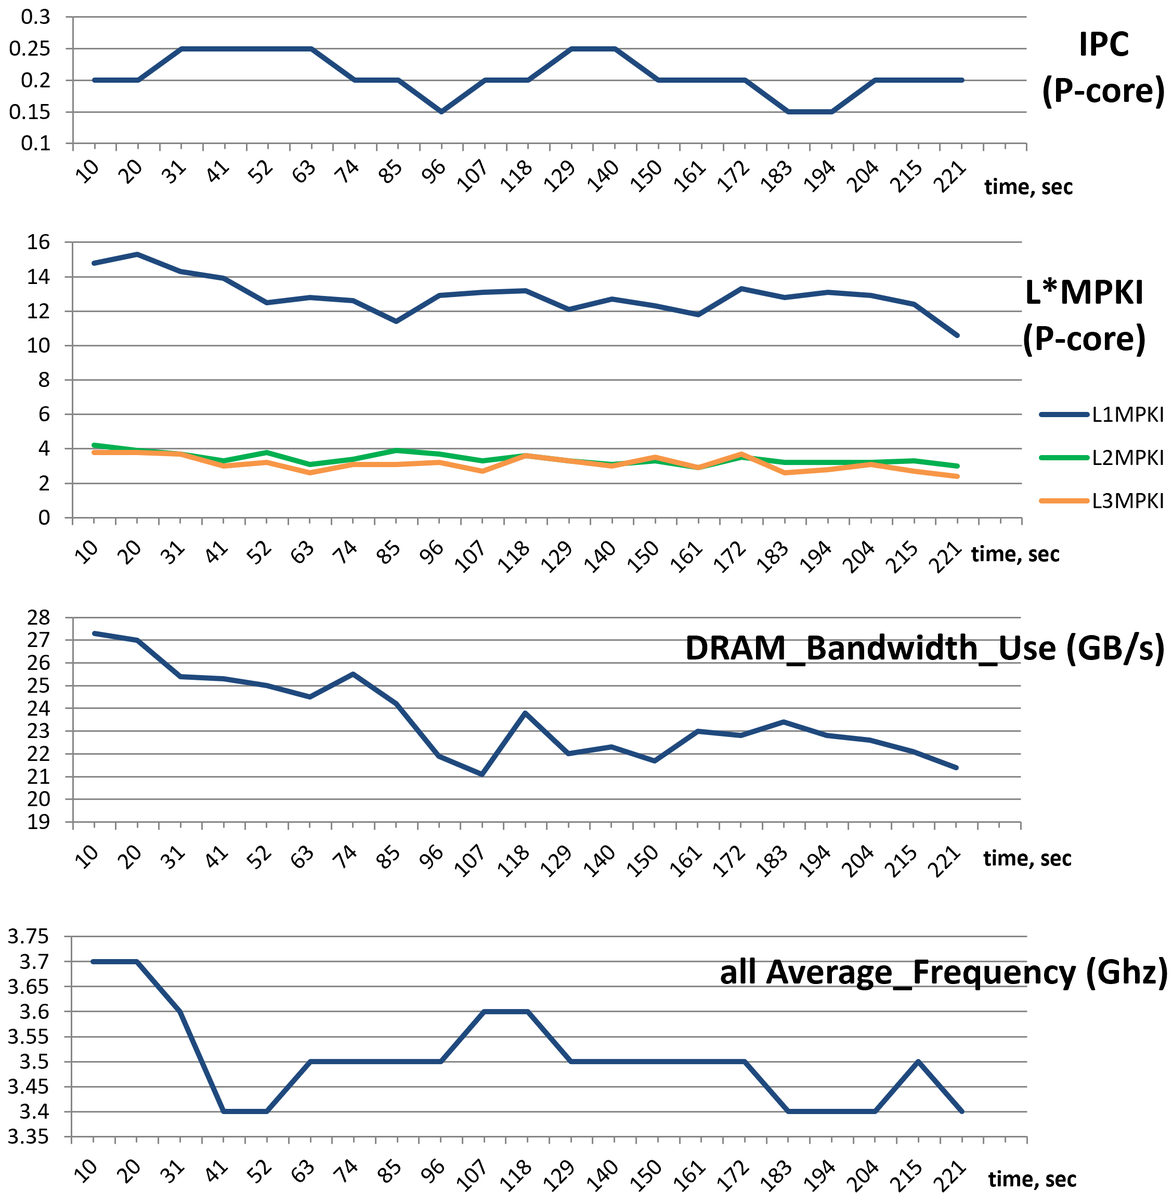
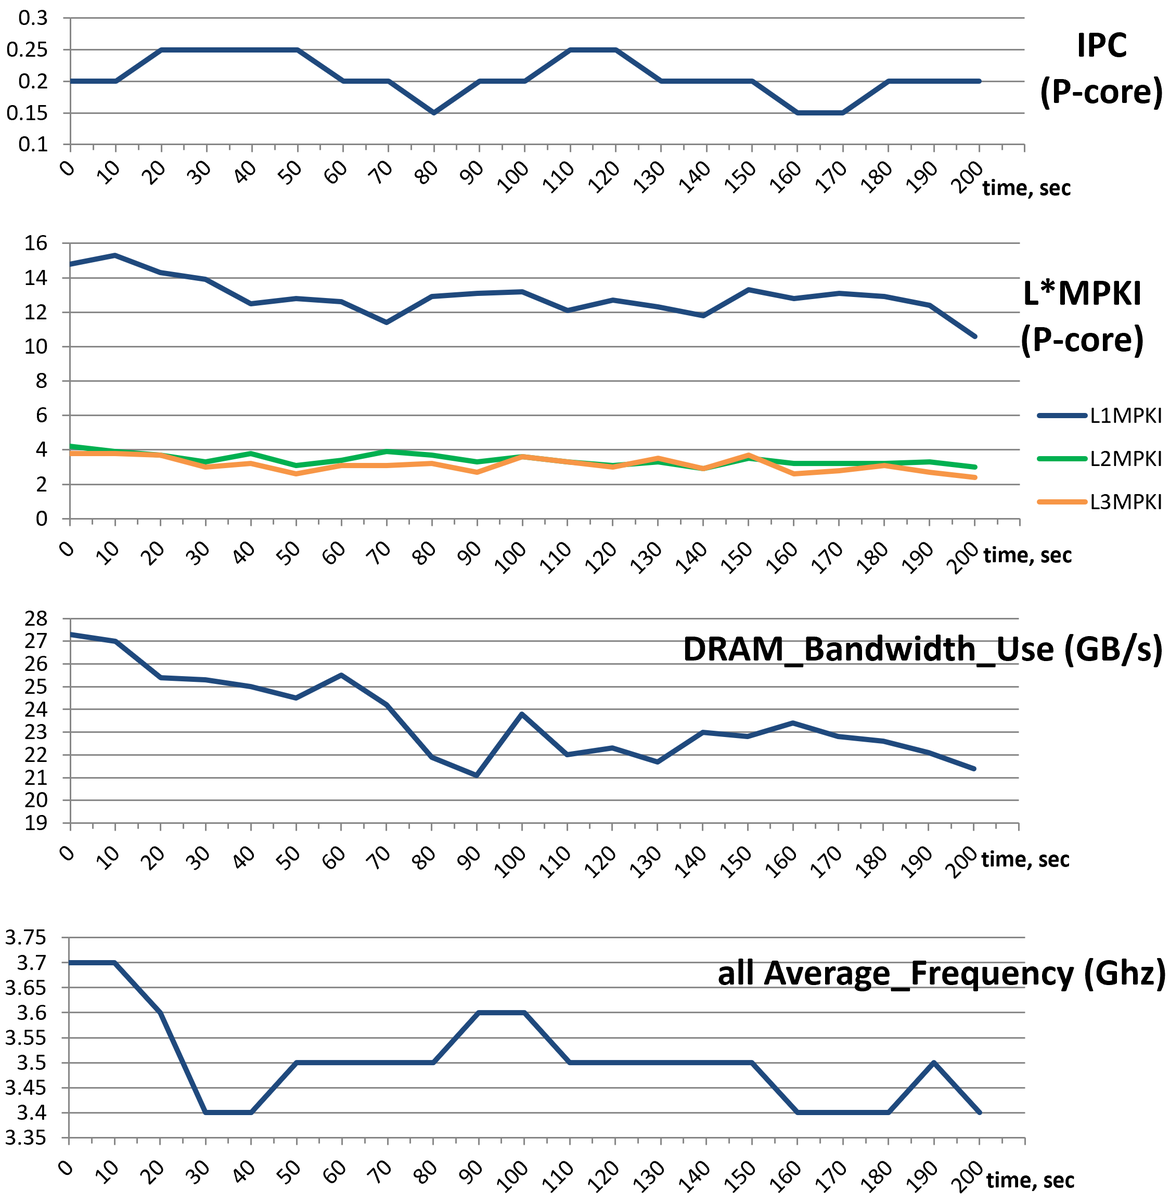
[Fixing TODOs] part3

diff --git a/chapters/4-Terminology-And-Metrics/4-11 Case Study of 4 Benchmarks.md b/chapters/4-Terminology-And-Metrics/4-11 Case Study of 4 Benchmarks.md
@@ -13,8 +13,7 @@ For the purpose of this exercise, we run all four benchmarks on the machine with
 * 16 GB RAM, DDR4 @ 2400 MT/s
 * 256GB NVMe PCIe M.2 SSD
 * 64-bit Ubuntu 22.04.1 LTS (Jammy Jellyfish)
-
-[TODO][FIX_BEFORE_REVIEW]: add compiler version and compiler options that were used
+* Clang-15 C++ compiler with the following options: `-O3 -march=core-avx2`
 
 To collect performance metrics, we use `toplev.py` script that is a part of [pmu-tools](https://github.com/andikleen/pmu-tools)[^1] written by Andi Kleen:
 
@@ -30,9 +29,7 @@ Table {@tbl:perf_metrics_case_study} provides a side-by-side comparison of perfo
 
 * __Clang 15 selfbuild__. Compilation of C++ code is one of the tasks which has a very flat performance profile, i.e., there are no big hotspots. Usually you will see that the running time is attributed to many different functions. First thing we spot is that P-cores are doing 68% more work than E-cores and have 42% better IPC. But both P- and E-cores have low IPC. The L*MPKI metrics don't look troubling at first glance; however, in combination with the load miss real latency (`LdMissLat`, in core clocks), we can see that the average cost of a cache miss is quite high (~77 cycles). Now, when we look at the `*STLB_MPKI` metrics, we notice substantial differences with any other benchmark we test. This is due to another aspect of the Clang compiler (and other compilers as well): the size of the binary is relatively big (more than 100 MB). The code constantly jumps to distant places causing high pressure on the TLB subsystem. As you can see the problem exists both for instructions (see `Code stlb MPKI`) and data (see `Ld stlb MPKI`). Let's proceed with our analysis. DRAM bandwidth use is higher than for the two previous benchmarks, but still is not reaching even half of the maximum memory bandwidth on our platform (which is ~25 GB/s). Another concern for us is the very small number of instructions per call (`IpCall`): only ~41 instruction per function call. This is unfortunately the nature of the compilation codebase: it has thousands of small functions. The compiler needs to be more aggressive with inlining all those functions and wrappers. Yet, we suspect that the performance overhead associated with making a function call remains an issue for the Clang compiler. Also, one can spot the high `ipBranch` and `IpMispredict` metric. For Clang compilation, every fifth instruction is a branch and one of every ~35 branches gets mispredicted. There are almost no FP or vector instructions, but this is not surprising. Conclusion: Clang has a large codebase, flat profile, many small functions, and "branchy" code; performance is affected by data cache and TLB misses, and branch mispredictions.
 
-[TODO][FIX_BEFORE_REVIEW]: recheck: The amount of work done by P- and E-cores is roughly the same, but it takes P-cores more time to do this work, resulting in a lower IPC of one logical thread on P-core compared to one physical E-core. **We don't have a good explanation to that just yet**.
-
-* __CloverLeaf__. As before, we start with analyzing instructions and core cycles. The amount of work done by P- and E-cores is roughly the same, but it takes P-cores more time to do this work, resulting in a lower IPC of one logical thread on P-core compared to one physical E-core. We don't have a good explanation for that. The `L*MPKI` metrics is high, especially the number of L3 misses per kilo instructions. The load miss latency (`LdMissLat`) is off the charts, suggesting an extremely high price of the average cache miss. Next, we take a look at the `DRAM BW use` metric and see that memory bandwidth is fully saturated. That's the problem: all the cores in the system share the same memory bus, so they compete for access to main memory, which effectively stalls the execution. CPUs are undersupplied with the data that they demand. Going further, we can see that CloverLeaf does not suffer from mispredictions or function call overhead. The instruction mix is dominated by FP double-precision scalar operations with some parts of the code being vectorized. Conclusion: multi-threaded CloverLeaf is bound by memory bandwidth.
+* __CloverLeaf__. As before, we start with analyzing instructions and core cycles. The amount of work done by P- and E-cores is roughly the same, but it takes P-cores more time to do this work, resulting in a lower IPC of one logical thread on P-core compared to one physical E-core.[^2] The `L*MPKI` metrics is high, especially the number of L3 misses per kilo instructions. The load miss latency (`LdMissLat`) is off the charts, suggesting an extremely high price of the average cache miss. Next, we take a look at the `DRAM BW use` metric and see that memory bandwidth is fully saturated. That's the problem: all the cores in the system share the same memory bus, so they compete for access to main memory, which effectively stalls the execution. CPUs are undersupplied with the data that they demand. Going further, we can see that CloverLeaf does not suffer from mispredictions or function call overhead. The instruction mix is dominated by FP double-precision scalar operations with some parts of the code being vectorized. Conclusion: multi-threaded CloverLeaf is bound by memory bandwidth.
 
 --------------------------------------------------------------------------
 Metric           Core        Blender     Stockfish   Clang15-   CloverLeaf
@@ -105,20 +102,17 @@ Table: Performance Metrics of Four Benchmarks. {#tbl:perf_metrics_case_study}
 
 As you can see from this study, there is a lot one can learn about behavior of a program just by looking at the metrics. It answers the "what?" question, but doesn't tell you the "why?". For that you will need to collect performance profile, which we will introduce in later chapters. In Part 2 of this book we will discuss how to mitigate the performance issues we suspect take place in the four benchmarks that we have analyzed.
 
-Keep in mind that the summary of performance metrics in Table {@tbl:perf_metrics_case_study} only tells you about the *average* behavior of a program. For example, we might be looking at CloverLeaf's IPC of `0.2`, while in reality it may never run with such an IPC, instead it may have 2 phases of equal duration, one running with IPC of `0.1`, and the second with IPC of `0.3`. Performance tools tackle this by reporting statistical data for each metric along with the average value. Usually, having min, max, 95th percentile, and variation (stdev/avg) is enough to understand the distribution. Also, some tools allow plotting the data, so you can see how the value for a certain metric changed during the program running time. As an example, Figure @fig:CloverMetricCharts shows the dynamics of IPC, L*MPKI, DRAM BW and average frequency for the CloverLeaf benchmark. The `pmu-tools` package can automatically build those charts once you add `--xlsx` and `--xchart` options.
+Keep in mind that the summary of performance metrics in Table {@tbl:perf_metrics_case_study} only tells you about the *average* behavior of a program. For example, we might be looking at CloverLeaf's IPC of `0.2`, while in reality it may never run with such an IPC, instead it may have 2 phases of equal duration, one running with IPC of `0.1`, and the second with IPC of `0.3`. Performance tools tackle this by reporting statistical data for each metric along with the average value. Usually, having min, max, 95th percentile, and variation (stdev/avg) is enough to understand the distribution. Also, some tools allow plotting the data, so you can see how the value for a certain metric changed during the program running time. As an example, Figure @fig:CloverMetricCharts shows the dynamics of IPC, L*MPKI, DRAM BW and average frequency for the CloverLeaf benchmark. The `pmu-tools` package can automatically build those charts once you add `--xlsx` and `--xchart` options. The `-I 10000` option aggregates collected samples with 10 second intervals.
 
 ```bash
-$ ~/workspace/pmu-tools/toplev.py -m --global --no-desc -v --xlsx workload.xlsx –xchart -- ./clover_leaf
+$ ~/workspace/pmu-tools/toplev.py -m --global --no-desc -v --xlsx workload.xlsx –xchart -I 10000 -- ./clover_leaf
 ```
 
-![A set of metrics charts for the CloverLeaf benchmark.](../../img/terms-and-metrics/CloverMetricCharts2.png){#fig:CloverMetricCharts width=100% }
+![Performance metrics charts for the CloverLeaf benchmark with 10 second intervals.](../../img/terms-and-metrics/CloverMetricCharts2.png){#fig:CloverMetricCharts width=100% }
 
-Even though the deviation from the values reported in the summary is not very big, we can see that the workload is not always stable. After looking at the IPC chart we can hypothesize that there are no various phases in the workload and the variation is caused by multiplexing between performance events (discussed in [@sec:counting]). Yet, this is only a hypothesis that needs to be confirmed or disproved. Possible ways to proceed would be to collect more data points by running collection with higher granularity (in our case it's 10 sec) and study the source code. Be careful when drawing conclusions just from looking at the numbers; always obtain a second source of data to confirm your hypothesis.
+Even though the deviation from the average values reported in the summary is not very big, we can see that the workload is not stable. After looking at the IPC chart for P-core we can hypothesize that there are no distinct phases in the workload and the variation is caused by multiplexing between performance events (discussed in [@sec:counting]). Yet, this is only a hypothesis that needs to be confirmed or disproved. Possible ways to proceed would be to collect more data points by running collection with higher granularity (in our case it was 10 seconds). The chart that plots L*MPKI suggests that all three metrics hover around their average numbers without much deviation. The DRAM bandwidth utilization chart indicates that there are periods with varying pressure on the main memory. The last chart shows the average frequency of all CPU cores. As you may observe on this chart, throttling starts after the first 10 seconds. We recommend to be careful when drawing conclusions just from looking at the aggregate numbers since they may not be a good representation of the workload behavior.
 
-[TODO][FIX_BEFORE_REVIEW]: describe the charts.
+In summary, performance metrics help you build a right mental model about what is and what is *not* happening in a program. Going further into analysis, this data will serve you well.
 
-Even though the deviation from the values reported in the summary is not very big, we can see that the workload is not always stable. After looking at the IPC chart we can hypothesize that there are no various phases in the workload and the variation is caused by multiplexing between performance events (discussed in [@sec:counting]). Yet, this is only a hypothesis that needs to be confirmed or disproved. Possible ways to proceed would be to collect more data points by running collection with higher granularity (in our case it's 10 sec) and study the source code. Be careful when drawing conclusions just from looking at the numbers; always obtain a second source of data to confirm your hypothesis.
-
-In summary, looking at performance metrics helps building the right mental model about what is and what is *not* happening in a program. Going further into analysis, this data will serve you well.
-
-[^1]: pmu-tools - [https://github.com/andikleen/pmu-tools](https://github.com/andikleen/pmu-tools).
+[^1]: pmu-tools - [https://github.com/andikleen/pmu-tools](https://github.com/andikleen/pmu-tools)
+[^2]: A possible explanation to that is because CloverLeaf is very memory-bandwidth bound. All P- and E-cores are equally stalled waiting on memory. Because P-cores have higher frequency, they waste more CPU clocks than E-cores.

diff --git a/chapters/4-Terminology-And-Metrics/4-16 Chapter summary.md b/chapters/4-Terminology-And-Metrics/4-16 Chapter summary.md
@@ -3,12 +3,9 @@
 ## Chapter Summary {.unlisted .unnumbered}
 
 * In this chapter, we introduced the basic metrics in performance analysis such as retired/executed instructions, CPU utilization, IPC/CPI, $\mu$ops, pipeline slots, core/reference clocks, cache misses and branch mispredictions. We showed how each of these metrics can be collected with Linux perf.
-* For more advanced performance analysis, there are many derivative metrics that one can collect. For instance, MPKI (misses per kilo instructions), Ip* (instructions per function call, branch, load, etc), ILP, MLP and others. The case studies in this chapter show how we can get actionable insights from analyzing these metrics. Although, be careful about drawing conclusions just by looking at the aggregate numbers. Don't fall in the trap of "excel performance engineering", i.e., only collecting performance metrics and never looking at the code. Always seek a second source of data (e.g., performance profiles, discussed later) to verify your hypothesis.
+* For more advanced performance analysis, there are many derivative metrics that you can collect. For instance, cache misses per kilo instructions (MPKI), instructions per function call, branch, load, etc (Ip*), ILP, MLP, and others. The case studies in this chapter show how you can get actionable insights from analyzing these metrics. 
+* Be careful about drawing conclusions just by looking at the aggregate numbers. Don't fall in the trap of "excel performance engineering", i.e., only collect performance metrics and never look at the code. Always seek a second source of data (e.g., performance profiles, discussed later) to verify your ideas.
 * Memory bandwidth and latency are crucial factors in performance of many production SW packages nowadays, including AI, HPC, databases, and many general-purpose applications. Memory bandwidth depends on the DRAM speed (in MT/s) and the number of memory channels. Modern high-end server platforms have 8-12 memory channels and can reach up to 500 GB/s for the whole system and up to 50 GB/s in single-threaded mode. Memory latency nowadays doesn't change a lot, in fact it is getting slightly worse with new DDR4 and DDR5 generations. The majority of modern systems fall in the range of 70--110 ns latency per memory access.
-
-[TODO][FIX_BEFORE_REVIEW]: fallacy of absolute numbers.
-
-[TODO][FIX_BEFORE_REVIEW]: Performance metrics: be careful about drawing conclusions just by looking at the aggregate numbers. Don't fall in the trap of "excel performance engineering", i.e., only collect performance metrics and never look at the code. Always seek a second source of data (e.g., performance profiles, discussed later) that will confirm your hypothesis.
 
 \sectionbreak
 

diff --git a/chapters/4-Terminology-And-Metrics/4-9 Performance Metrics.md b/chapters/4-Terminology-And-Metrics/4-9 Performance Metrics.md
@@ -1,6 +1,8 @@
 ## Performance Metrics {#sec:PerfMetrics}
 
-In addition to the performance events that we discussed earlier in this chapter, performance engineers frequently use metrics, which are built on top of raw events. Table {@tbl:perf_metrics} shows a list of metrics for Intel's 12th-gen Goldencove architecture along with descriptions and formulas. The list is not exhaustive, but it shows the most important metrics. A complete list of metrics for Intel CPUs and their formulas can be found in [TMA_metrics.xlsx](https://github.com/intel/perfmon/blob/main/TMA_Metrics.xlsx).[^1] [@sec:PerfMetricsCaseStudy] shows how performance metrics can be used in practice.
+Being able to collect various performance events is very helpful in performance analysis. However, there is a problem. Say, you ran a program and collected `MEM_LOAD_RETIRED.L3_MISS` event, which counts the LLC misses, and it shows you a value of one billion. Sure it sounds like a lot, so you decided to investigate where these cache misses are coming from. Wrong! Are you really sure it is an issue? If a program only does two billion loads, then yes, it is a problem as half of the loads miss in the LLC. In contrast, if a program does one trillion loads, then only one in a thousand loads results in a L3 cache miss.
+
+That's why in addition to the hardware performance events, performance engineers frequently use metrics, which are built on top of raw events. Table {@tbl:perf_metrics} shows a list of metrics for Intel's 12th-gen Goldencove architecture along with descriptions and formulas. The list is not exhaustive, but it shows the most important metrics. A complete list of metrics for Intel CPUs and their formulas can be found in [TMA_metrics.xlsx](https://github.com/intel/perfmon/blob/main/TMA_Metrics.xlsx).[^1] [@sec:PerfMetricsCaseStudy] shows how performance metrics can be used in practice.
 
 \small
 

diff --git a/chapters/4-Terminology-And-Metrics/4-5 Pipeline Slot.md b/chapters/4-Terminology-And-Metrics/4-5 Pipeline Slot.md
@@ -8,8 +8,9 @@ Another important metric which some performance tools use is the concept of a *p
 
 [TODO][FIX_BEFORE_REVIEW]: update. Apple published that M1 has 8-wide allocation and M3 is 9-wide, see Table 4.10. uop Execution Bandwidth.
 
-Intel's Skylake and AMD Zen3 cores have 4-wide allocation. Intel's SunnyCove microarchitecture was a 5-wide design. As of 2023, most recent Goldencove and Zen4 architectures both have 6-wide allocation. Apple M1 design is not officially disclosed but is measured to be 8-wide.[^1]
+Intel's Skylake and AMD Zen3 cores have 4-wide allocation. Intel's SunnyCove microarchitecture was a 5-wide design. As of the end of 2023, most recent Goldencove and Zen4 architectures both have 6-wide allocation. Apple M1 design is not officially disclosed but is measured to be 8-wide.[^1] The width of a machine puts a cap on IPC. This means that the maximum achievable IPC of a processor equals to its width.[^2] For example, when your calculations show more than 6 IPC on a Goldencove-based machine, you should be suspicious.
 
 Pipeline slot is one of the core metrics in Top-down Microarchitecture Analysis (see [@sec:TMA]). For example, Front-End Bound and Back-End Bound metrics are expressed as a percentage of unutilized Pipeline Slots due to various bottlenecks.
 
 [^1]: Apple Microarchitecture Research - [https://dougallj.github.io/applecpu/firestorm.html](https://dougallj.github.io/applecpu/firestorm.html)
+[^2]: Although there are some exception. For instance macrofused compare-and-branch instructions only require a single pipeline slot, but are counted as two instructions. In some extreme cases this may cause IPC to be greater than machine width.

diff --git a/chapters/15-Epilog/15-1 Acknowledgements.md b/chapters/15-Epilog/15-1 Acknowledgements.md
@@ -53,11 +53,8 @@ Marco Castorina authored [@sec:Tracy] "Specialized and Hybrid profilers" that sh
 \begin{wrapfigure}{r}{2.5cm}
 \includegraphics[width=2.5cm]{../../img/contributors/LallySingh_circle.png}
 \end{wrapfigure} 
-Lally Singh has authored [@sec:MarkerAPI] about Marker APIs. [TODO]: Lally's bio
+Lally Singh has authored [@sec:MarkerAPI] about Marker APIs. Lally is currently at Tesla, his prior work includes Datadog's performance team, Google's Search performance team, low latency trading systems, and embedded real-time control systems. Lally has a PhD in CS from Virginia Tech, focusing on scalability in distributed VR.
 
-\hfill \break 
-\hfill \break 
-\hfill \break 
 \hfill \break 
 
 Jumana Mundichipparakkal from ARM, for helping me write about ARM PMU features in [@sec:PmuChapter], for your review and comments. And thanks for your support from the first edition of this book.
@@ -72,8 +69,7 @@ Also, I would like to thank the whole performance community for countless blog a
 
 [TODO]: technical reviewers and proofreaders: Amir Aupov, Charles-Francois Natali
 
-[TODO]: ask for permission 
-I would like to thank my manager at Intel for giving me time slots to work on this book.
+[TODO]: ask for permission. I would like to thank my manager at Intel for giving me time slots to work on this book.
 
 Last but not least, thanks to my family, who were patient enough to tolerate me missing weekend trips and evening walks. Without their support, I wouldn't have finished this book.
 

diff --git a/chapters/3-CPU-Microarchitecture/3-9 PMU.md b/chapters/3-CPU-Microarchitecture/3-9 PMU.md
@@ -4,8 +4,6 @@
 
 Every modern CPU provides facilities to monitor performance, which are combined into the Performance Monitoring Unit (PMU). This unit incorporates features that help developers to analyze the performance of their applications. An example of a PMU in a modern Intel CPU is provided in Figure @fig:PMU. Most modern PMUs have a set of Performance Monitoring Counters (PMC) that can be used to collect various performance events that happen during the execution of a program. Later in [@sec:counting], we will discuss how PMCs can be used for performance analysis. Also, the PMU has other features that enhance performance analysis, like LBR, PEBS, and PT, a topic to which [@sec:PmuChapter] is devoted.
 
-[TODO][FIX_BEFORE_REVIEW]: The font size used in this diagram is too small for comfortable reading.
-
 ![Performance Monitoring Unit of a modern Intel CPU.](../../img/uarch/PMU.png){#fig:PMU width=100%}
 
 As CPU design evolves with every new generation, so do their PMUs. On Linux, it is possible to determine the version of the PMU in your CPU using the `cpuid` command, as shown in [@lst:QueryPMU]. A similar information can be extracted from the kernel message buffer by checking the output of `dmesg` command. Characteristics of each Intel PMU version, as well as changes from the previous version, can be found in [@IntelOptimizationManual, Volume 3B, Chapter 20].

diff --git a/chapters/15-Epilog/15-0 Epilog.md b/chapters/15-Epilog/15-0 Epilog.md
@@ -4,6 +4,8 @@
 
 Thanks for reading through the whole book. I hope you enjoyed it and found it useful. I would be even happier if the book would help you solve a real-world problem. In such a case, I would consider it a success and proof that my efforts were not wasted. Before you continue with your endeavors, let me briefly highlight the essential points of the book and give you final recommendations:
 
+[TODO][FIX_BEFORE_REVIEW]: update from chapter 1
+
 * HW performance is not increasing as rapidly as it used to a few decades ago. Performance tuning is becoming more critical than it has been for the last 40 years. It will be one of the key drivers for performance gains in the near future. 
 * Software doesn't have optimal performance by default. Certain limitations exist that prevent applications from reaching their full performance potential. Both HW and SW components have such limitations.
 * There is a famous quote by Donald Knuth: "Premature optimization is the root of all evil". But the opposite is often true as well. Postponed performance engineering work may be too late and cause as much evil as premature optimization. Do not neglect performance aspects when designing your future products. Save your project by integrating automated performance benchmarking into your CI/CD pipeline. *Measure early, measure often.*

diff --git a/chapters/3-CPU-Microarchitecture/3-8 Modern CPU design.md b/chapters/3-CPU-Microarchitecture/3-8 Modern CPU design.md
@@ -115,8 +115,6 @@ The key element to speed up the page walk procedure is a set of Paging-Structure
 
 The Goldencove microarchitecture has four dedicated page walkers, which allows it to process 4 page walks simultaneously. In the event of a TLB miss, these HW units will issue the required loads into the memory subsystem and populate the TLB hierarchy with new entries. The page-table loads generated by the page walkers can hit in L1, L2, or L3 caches (details are not disclosed). Finally, page walkers can anticipate a future TLB miss and speculatively do a page walk to update TLB entries before a miss actually happens.
 
-[TODO][FIX_BEFORE_REVIEW]: SMT
-
 The Goldencove specification doesn't disclose how resources are shared between two SMT threads. But in general, caches, TLBs and execution units are fully shared to improve the dynamic utilization of those resources. On the other hand, buffers for staging instructions between major pipe stages are either replicated or partitioned. These buffers include IDQ, ROB, RAT, RS, LDQ and STQ. PRF is also replicated.
 
 [^1]: There are around 300 physical general-purpose registers (GPRs) and a similar number of vector registers. The actual number of registers is not disclosed.

diff --git a/chapters/4-Terminology-And-Metrics/4-3 CPI and IPC.md b/chapters/4-Terminology-And-Metrics/4-3 CPI and IPC.md
@@ -36,8 +36,6 @@ IPC is useful for evaluating both HW and SW efficiency. HW engineers use this me
 
 IPC is also a useful metric for evaluating software. It gives you an intuition for how quickly instructions in your application progress through the CPU pipeline. Later in this chapter you will see several production applications with varying IPC. Memory intensive applications are usually characterized with a low IPC (0-1), while computationally intensive workloads tend have high IPC (4-6).
 
-[TODO][FIX_BEFORE_REVIEW]: discuss the theoretical maximum IPC of a CPU, and what is achieved by an application.
-
 Linux `perf` users can measure the IPC for their workload by running:
 
 ```bash
